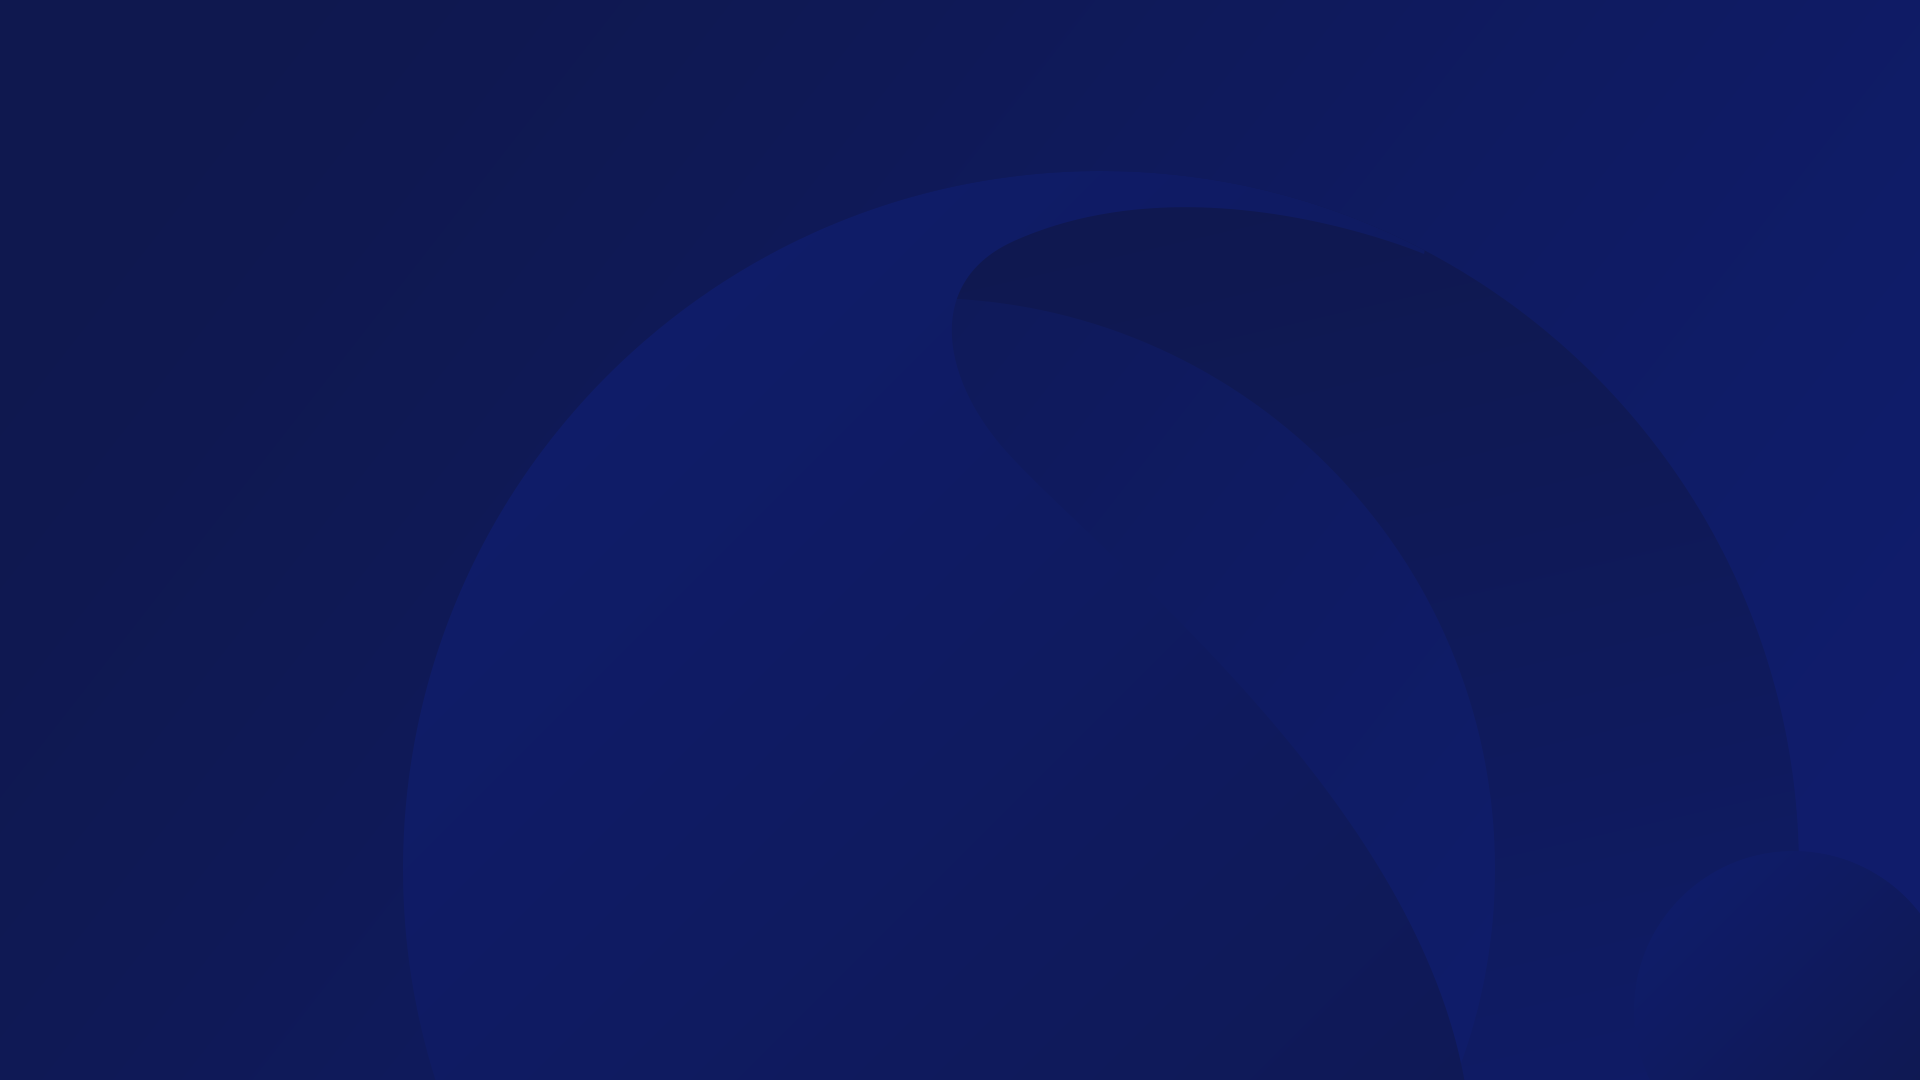
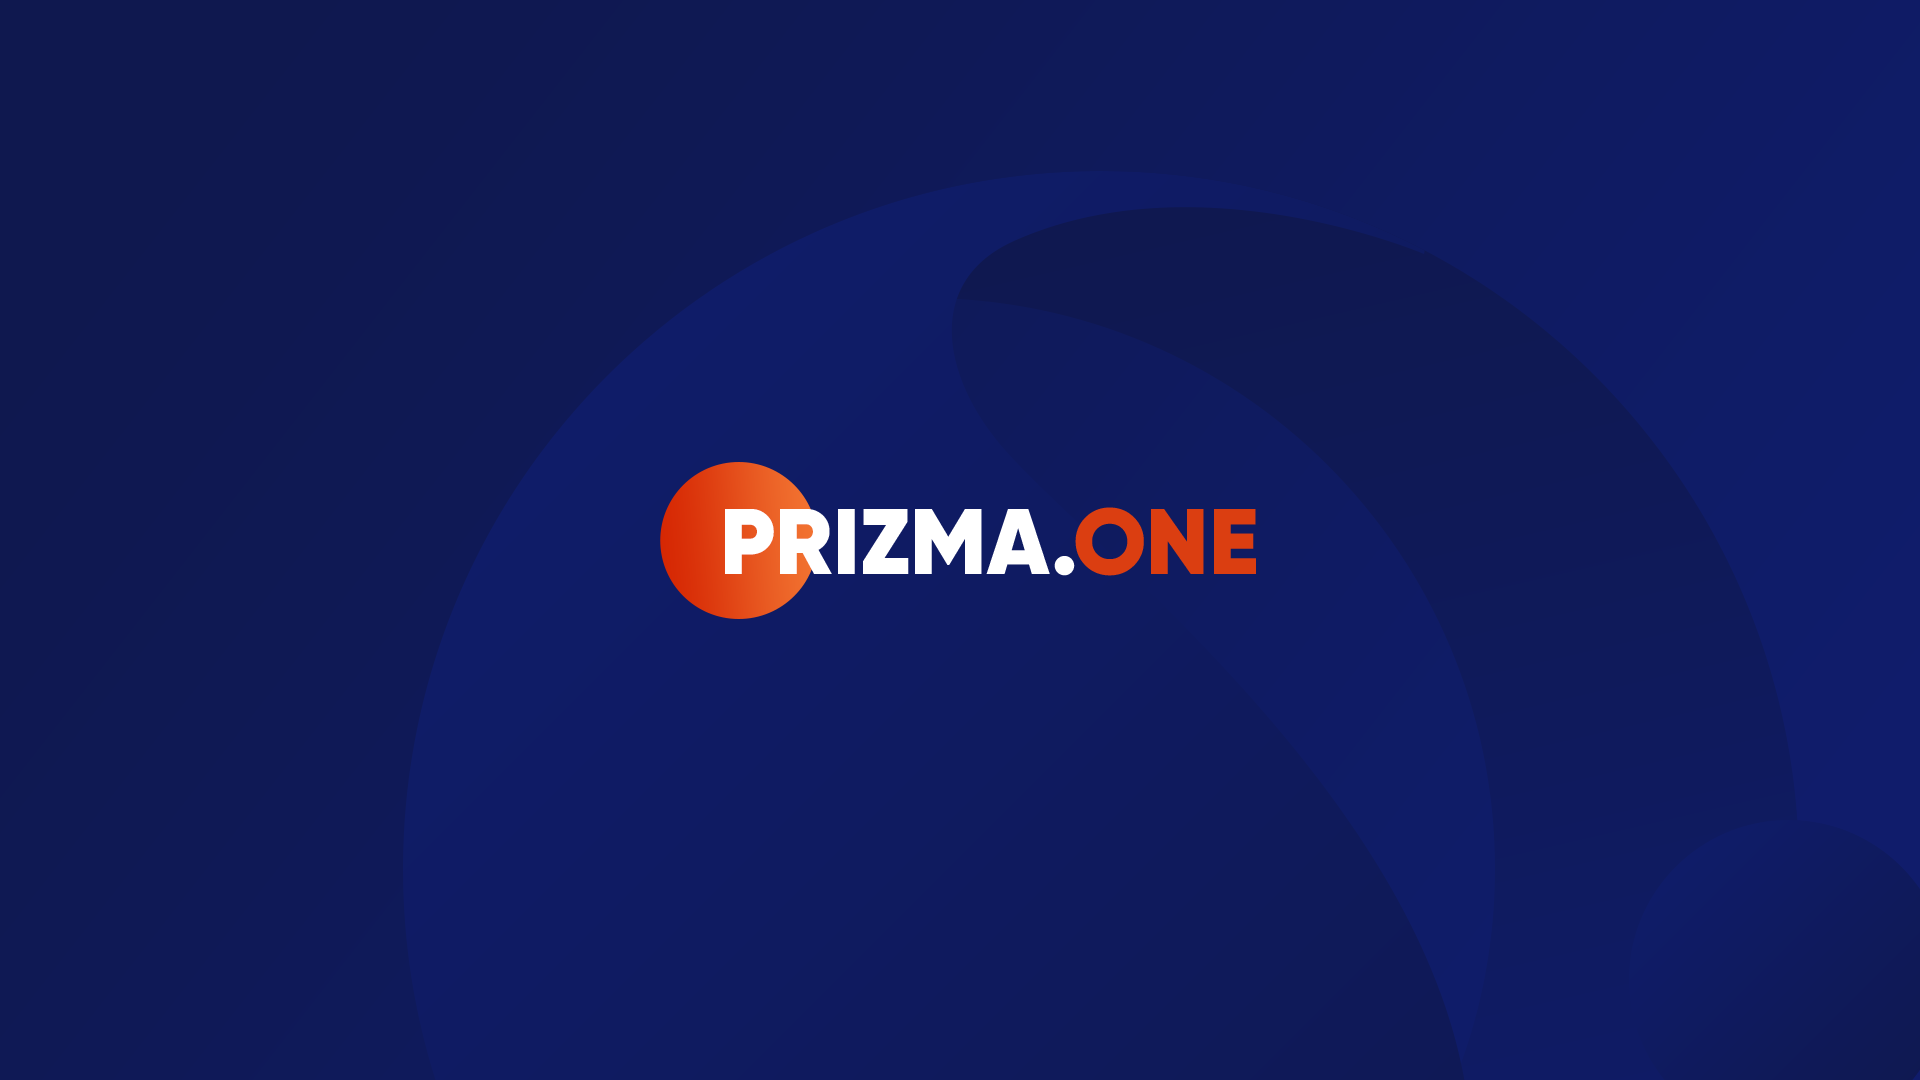
vg

Changed region(s): [[0.3438, 0.4278, 0.6562, 0.5806]]

diff --git a/index.html b/index.html
@@ -7,23 +7,18 @@
     <meta http-equiv="X-UA-Compatible" content="ie=edge">
     <title>Prizma.One</title>
     <link rel="stylesheet" href="./styles.css">
-    <!--    <link rel="stylesheet" href="https://stackpath.bootstrapcdn.com/bootstrap/4.3.1/css/bootstrap.min.css"
-        integrity="sha384-ggOyR0iXCbMQv3Xipma34MD+dH/1fQ784/j6cY/iJTQUOhcWr7x9JvoRxT2MZw1T" crossorigin="anonymous"> -->
+    <link rel="stylesheet" href="https://stackpath.bootstrapcdn.com/bootstrap/4.3.1/css/bootstrap.min.css"
+        integrity="sha384-ggOyR0iXCbMQv3Xipma34MD+dH/1fQ784/j6cY/iJTQUOhcWr7x9JvoRxT2MZw1T" crossorigin="anonymous">
 </head>
 
 <body>
-    <div class="container-fluid"
-        style="background: url(images/intro.png); height:1100px; background-repeat:no-repeat; background-position: cover;">
-        <p>
-            Lorem ipsum dolor sit amet consectetur, adipisicing elit. Quis perspiciatis repellat cumque, voluptate
-            atque, cupiditate quam accusantium corporis consequuntur eveniet voluptates? Quia nobis veritatis nulla
-            eligendi! Asperiores architecto saepe assumenda facere quibusdam quasi autem quae non quaerat quod labore,
-            est illum, veniam repellendus quis fugit sit officiis magni! Magni dignissimos amet quisquam porro unde
-            error veritatis sapiente impedit nam tempore adipisci, vero totam eaque ex perferendis voluptas minus neque.
-            Vitae ipsa optio dolores magni! Nihil, quis accusantium ipsam pariatur, eveniet ullam sequi ad at maxime,
-            assumenda blanditiis deleniti veritatis reprehenderit? Exercitationem non, deserunt a dignissimos dolores
-            eos. Eius, dicta exercitationem!
-        </p>
+    <div class="container">
+        <div class="row">
+            <div class="col-md-12 img-row">
+                <img class="intro-logo" src="/images/logo.png" alt="">
+                <p>sdasdasdsa</p>
+            </div>
+        </div>
     </div>
 
 
@@ -31,16 +26,26 @@
 
 
 
-
-    <!--    <script src="https://code.jquery.com/jquery-3.3.1.slim.min.js"
+    <script src="https://code.jquery.com/jquery-3.3.1.slim.min.js"
         integrity="sha384-q8i/X+965DzO0rT7abK41JStQIAqVgRVzpbzo5smXKp4YfRvH+8abtTE1Pi6jizo" crossorigin="anonymous">
+    </script>
+    <script>
+        $(document).ready(function () {
+            var logo = $(".intro-logo");
+            var timerid = setTimeout(Logoanimation, 3000);
+
+            function Logoanimation() {
+                logo.addClass("active-logo");
+            }
+
+        });
     </script>
     <script src="https://cdnjs.cloudflare.com/ajax/libs/popper.js/1.14.7/umd/popper.min.js"
         integrity="sha384-UO2eT0CpHqdSJQ6hJty5KVphtPhzWj9WO1clHTMGa3JDZwrnQq4sF86dIHNDz0W1" crossorigin="anonymous">
     </script>
     <script src="https://stackpath.bootstrapcdn.com/bootstrap/4.3.1/js/bootstrap.min.js"
         integrity="sha384-JjSmVgyd0p3pXB1rRibZUAYoIIy6OrQ6VrjIEaFf/nJGzIxFDsf4x0xIM+B07jRM" crossorigin="anonymous">
-    </script> -->
+    </script>
 </body>
 
 

diff --git a/styles.css b/styles.css
@@ -1,0 +1,30 @@
+body {
+    background: linear-gradient(90deg, #0f184f, #0f1c69);
+    background-image: url(images/intro-without-logo.png);
+    background-size: cover;
+    background-repeat: no-repeat;
+}
+.img-row{
+    height: 550px;
+}
+.intro-logo {
+    width: 650px;
+    position: absolute;
+    left: 20%;
+    top: 90%;
+}
+
+
+.active-logo{
+    animation: front-rotation 2s infinite;
+}
+@keyframes front-rotation{
+    from {
+      transform: rotateY(0deg);
+      
+    }
+    to {
+      transform: rotateY(360deg);
+      transform: translate(-25%,-25%)
+    }
+  }
